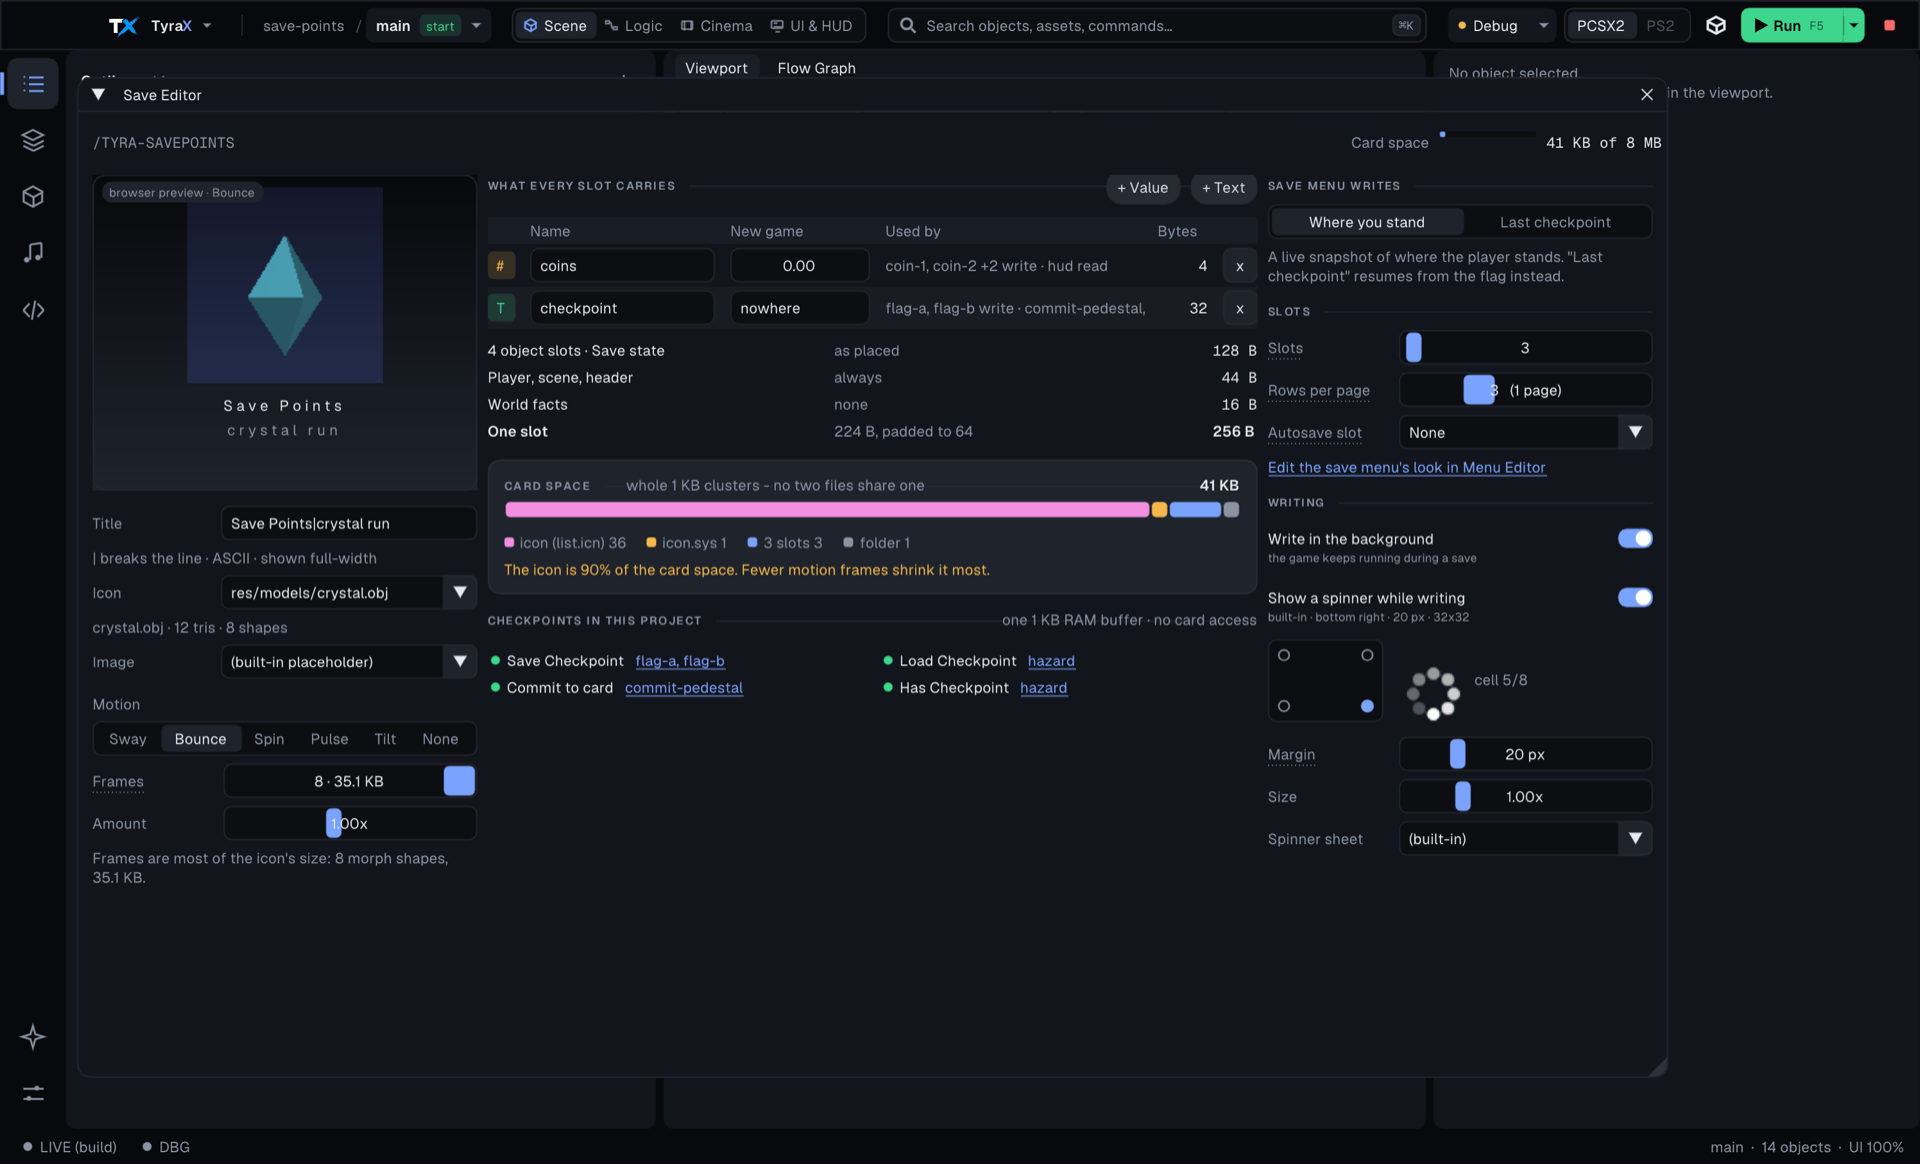
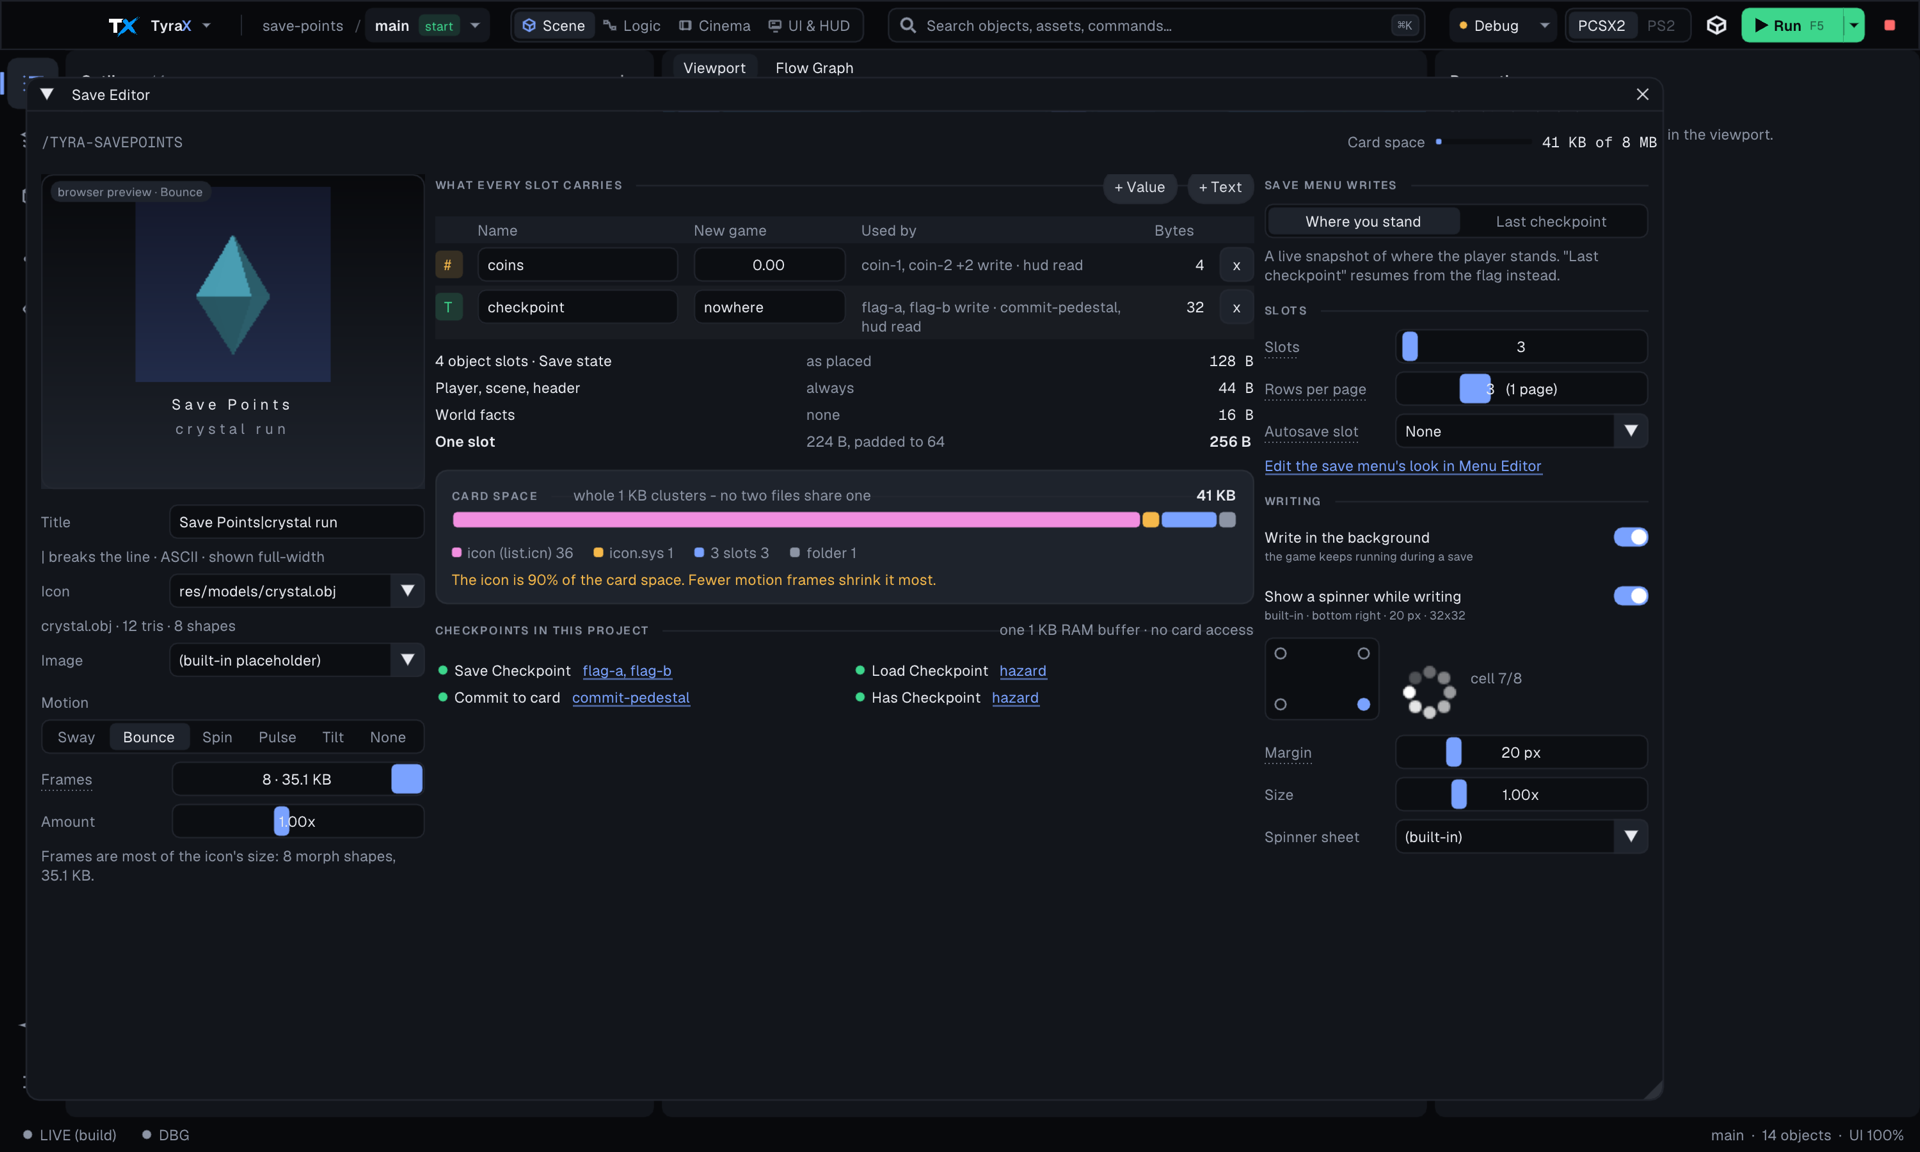
Save Editor: "Used by" wraps instead of cutting off; header meter on the text line
Divergences (SaveEditor artboard): the Used by cell of a value used in
many places was cut mid-word ("commit-pedestal, huc" - the design wraps
it onto a second line), and the header's Card space meter floated above
its label.

Fix: the Used by cell is wrapped dim text. ui::Meter centres its bar on
the line's text baseline (DC.CurrLineTextBaseOffset, as Text() does), so
after SameLine on a frame-padded line it sits beside its words.

Verified: --ui-script on a copy of examples/save-points, window undocked
1280x800, shot compared with the artboard. docs/img/save-editor.png
retaken.

diff --git a/src/toolkit.cpp b/src/toolkit.cpp
@@ -844,7 +844,10 @@ void Meter(float fraction, float width, float warnAt, float dangerAt) {
     const float lineH = ImGui::GetTextLineHeight();
     const float h = ImMax(3.0f, ImGui::GetFontSize() * 0.28f);
     const ImVec2 p = ImGui::GetCursorScreenPos();
-    const float y = p.y + (lineH - h) * 0.5f;
+    // Centred on the line's TEXT, as Text() places it: after SameLine on a
+    // frame-padded line (AlignTextToFramePadding) the text sits lower than
+    // the cursor, and the bar floated above it (Save Editor header).
+    const float y = p.y + ImGui::GetCurrentWindowRead()->DC.CurrLineTextBaseOffset + (lineH - h) * 0.5f;
     ImDrawList* dl = ImGui::GetWindowDrawList();
     dl->AddRectFilled(ImVec2(p.x, y), ImVec2(p.x + w, y + h), c32(sem.field), h);
     const float f = ImClamp(fraction, 0.0f, 1.0f);

diff --git a/src/app.cpp b/src/app.cpp
@@ -12319,8 +12319,12 @@ void App::drawSaveDataSection() {
         ImGui::AlignTextToFramePadding();
         if (s.empty())
             ImGui::TextColored(sem.warn, "nothing uses it");
-        else
-            ImGui::TextDisabled("%s", s.c_str());
+        else {
+            // Wrapped, as the design draws it: one line cut "commit-pedestal, huc".
+            ImGui::PushStyleColor(ImGuiCol_Text, sem.textDim);
+            ImGui::TextWrapped("%s", s.c_str());
+            ImGui::PopStyleColor();
+        }
         if (ImGui::IsItemHovered())
             ImGui::SetTooltip("%s", s.empty() ? "No flow node or menu row reads or writes it." : useTooltip(u).c_str());
     };
